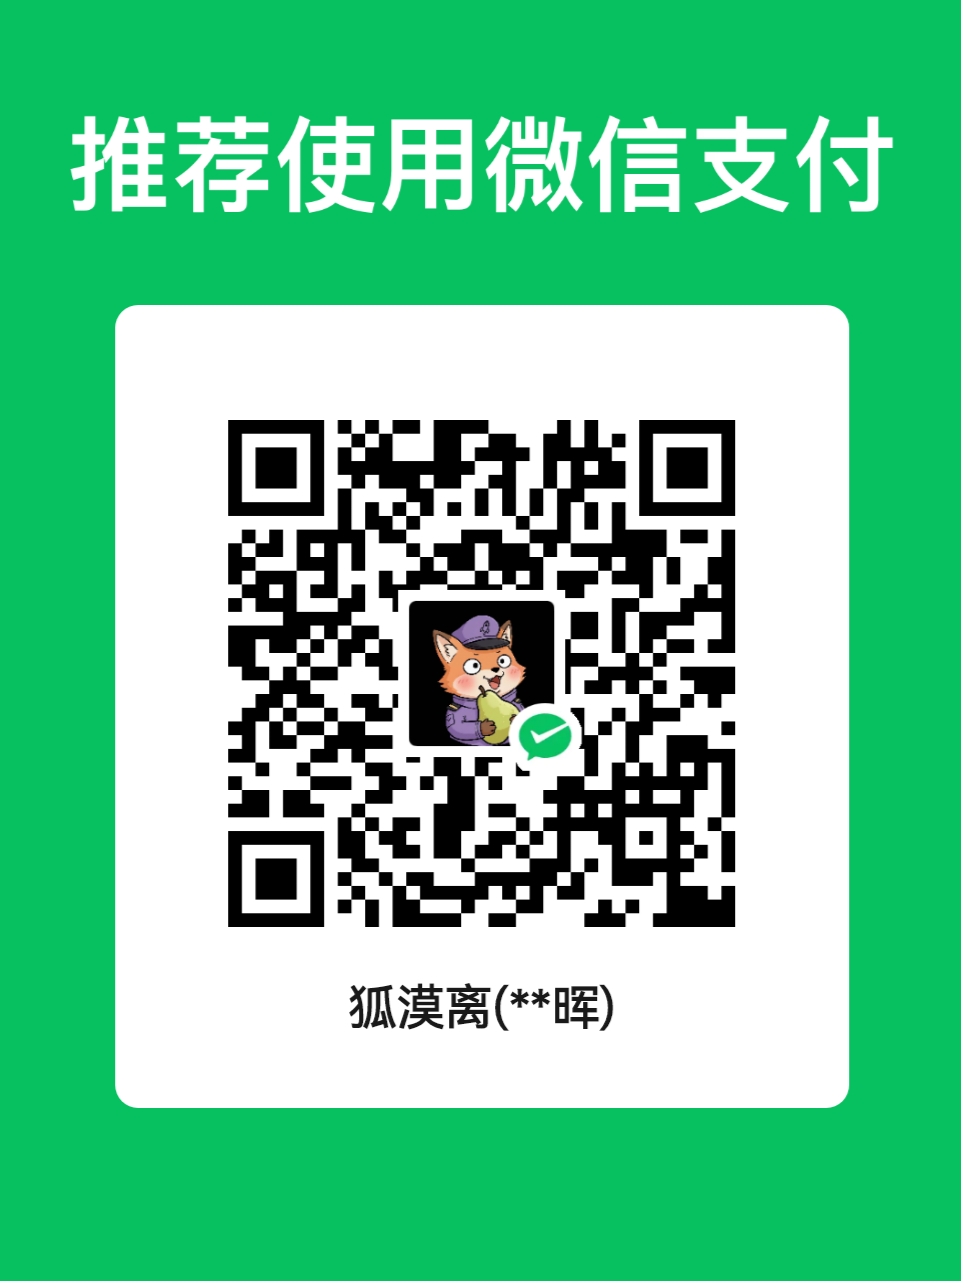
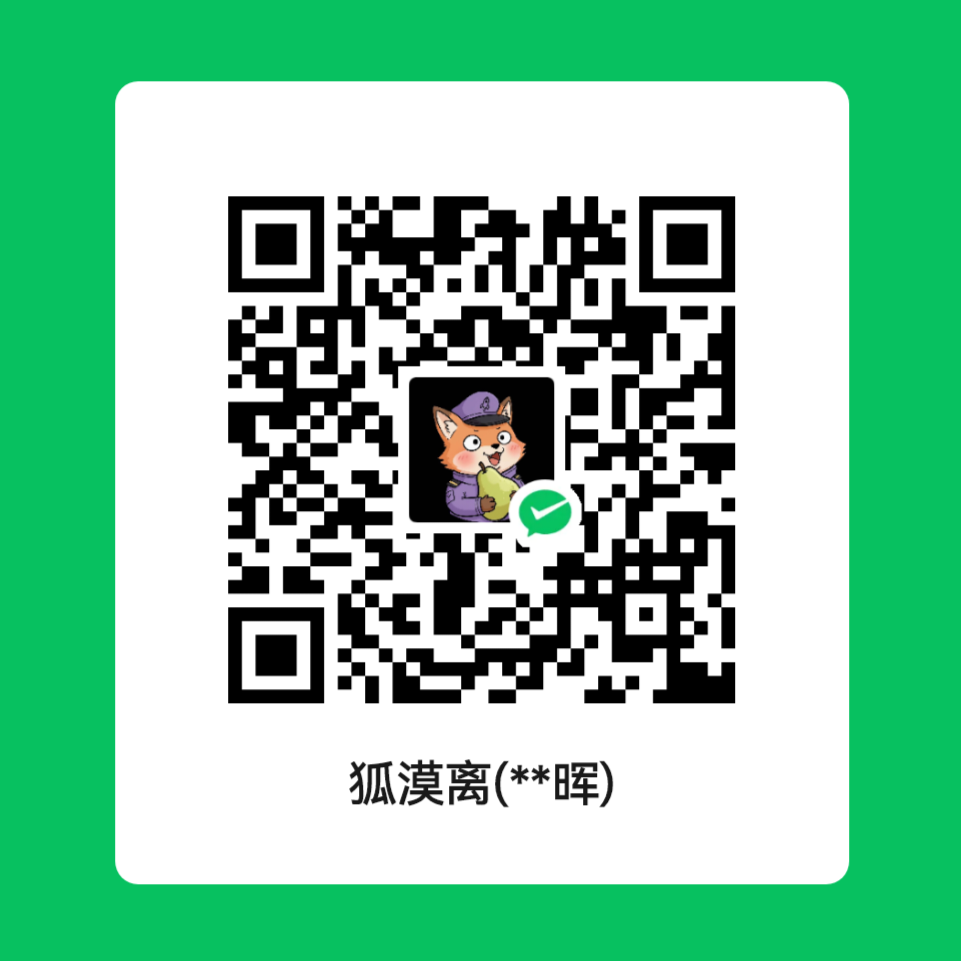
调整readme排版

Changed region(s): [[0.0624, 0.0624, 0.9365, 0.9365]]

diff --git a/README.md b/README.md
@@ -43,6 +43,6 @@ see you again：消耗三十点法力，直接获胜<br>
 
 ## 请作者喝杯咖啡
 
-![赞赏](public/zansang.png)
-![微信](public/wechat.png)
-![支付宝](public/zfb.jpg)
+<img src="public/zansang.png" width="30%" alt="赞赏"/>
+<img src="public/wechat.png" width="30%" alt="微信"/>
+<img src="public/zfb.jpg" width="30%" alt="支付宝"/>
